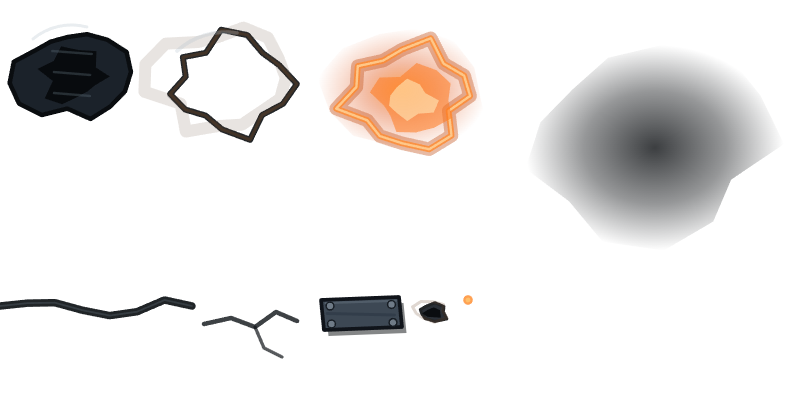
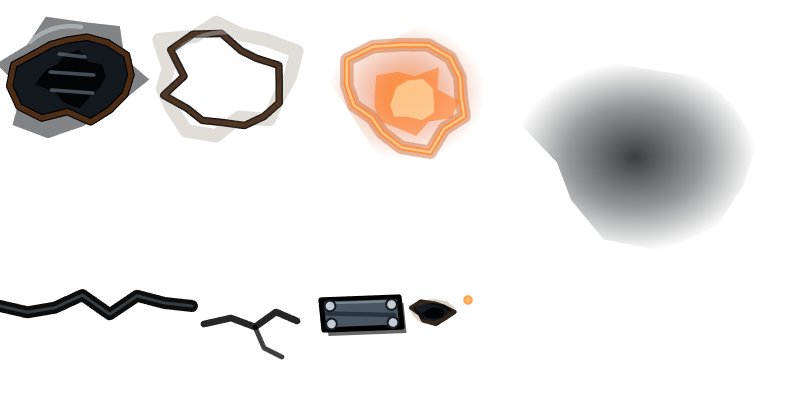
Take the heavier scar decals and widen the crater

diff --git a/docs/scar_layer/SCAR_IMPLEMENTATION.md b/docs/scar_layer/SCAR_IMPLEMENTATION.md
@@ -68,7 +68,7 @@ Footprint tiles are hex centres in module-local pixels. For a pointy-top 222×25
 
 1. Pick the impact tile from the footprint, then jitter the impact point up to ±35 x, ±40 y off its centre.
 2. Impact angle comes from the upper-left (the hull's light direction): `-2.5 + rng.randf() * 0.5` radians. Streaks and pock rotation follow it.
-3. Crater radius: `30 + 20 * severity` px at 1× tile scale (severity ~1.5 gives a ~60 px crater, i.e. `crater_core` at scale 1.0).
+3. Crater radius: `44 + 30 * severity` px at 1× tile scale (severity ~1.5 gives a ~90 px crater, i.e. `crater_core` at scale 1.0). Outlines are near-black and heavier-weight throughout so the scar reads as a silhouette at thumbnail/zoomed-out camera distances.
 4. Crack runs: from the crater edge toward each other tile centre, jittered ±0.15 rad, length 0.75–1.15× the distance. Lay `crack_segment` end to end along that path with ±0.1 rad per link.
 5. Weld plate at 55–75% along each run, rotated to the run angle; three stitch marks perpendicular, spaced 13 px, just beyond it.
 6. Pocks: place within ~88 px of each tile centre, radius 5–17 px, squashed 1.5–2.8× along the impact vector.
